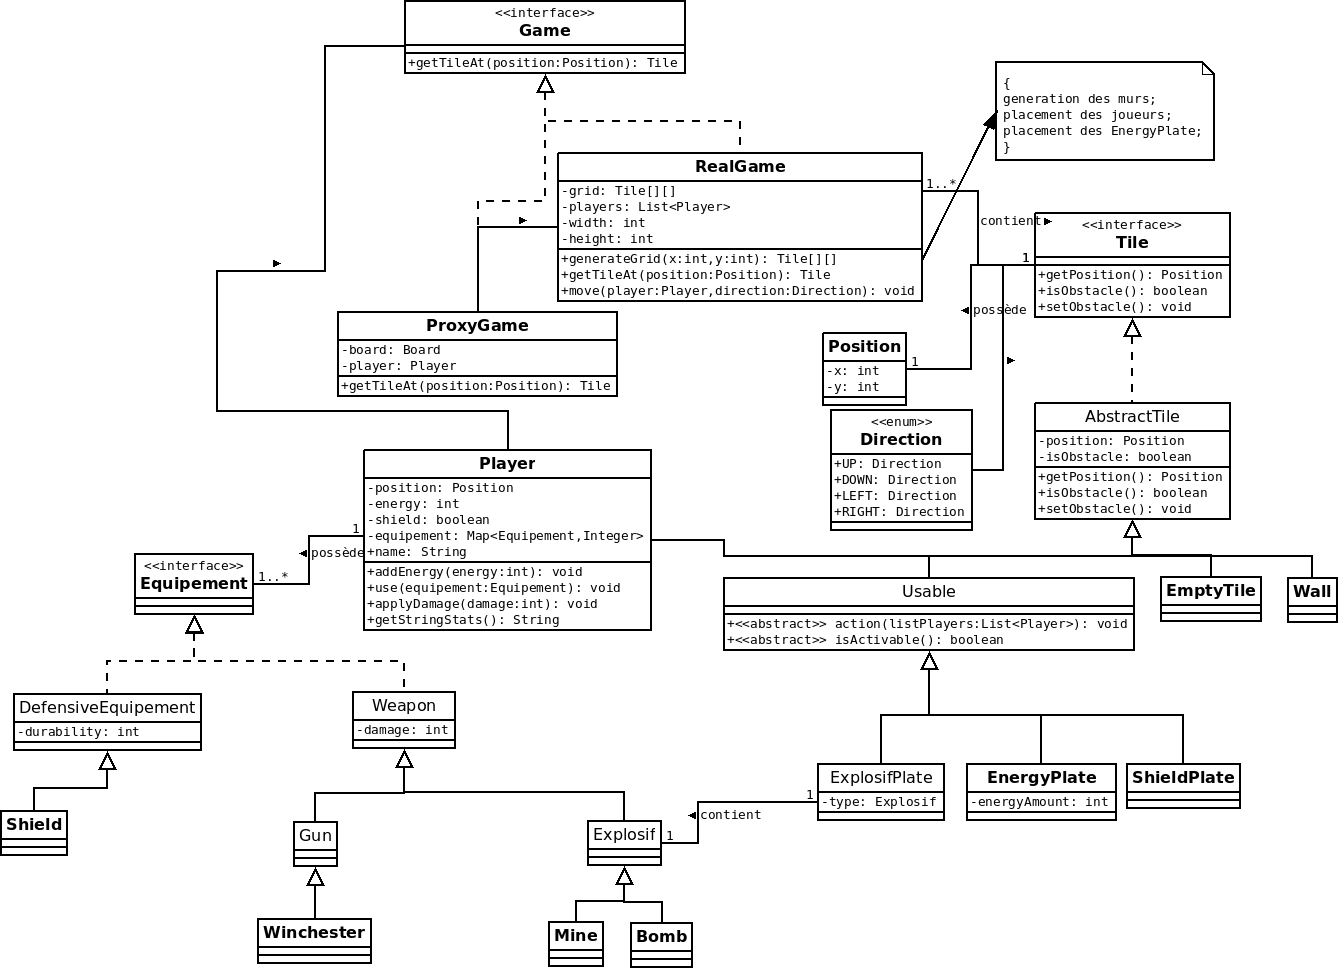
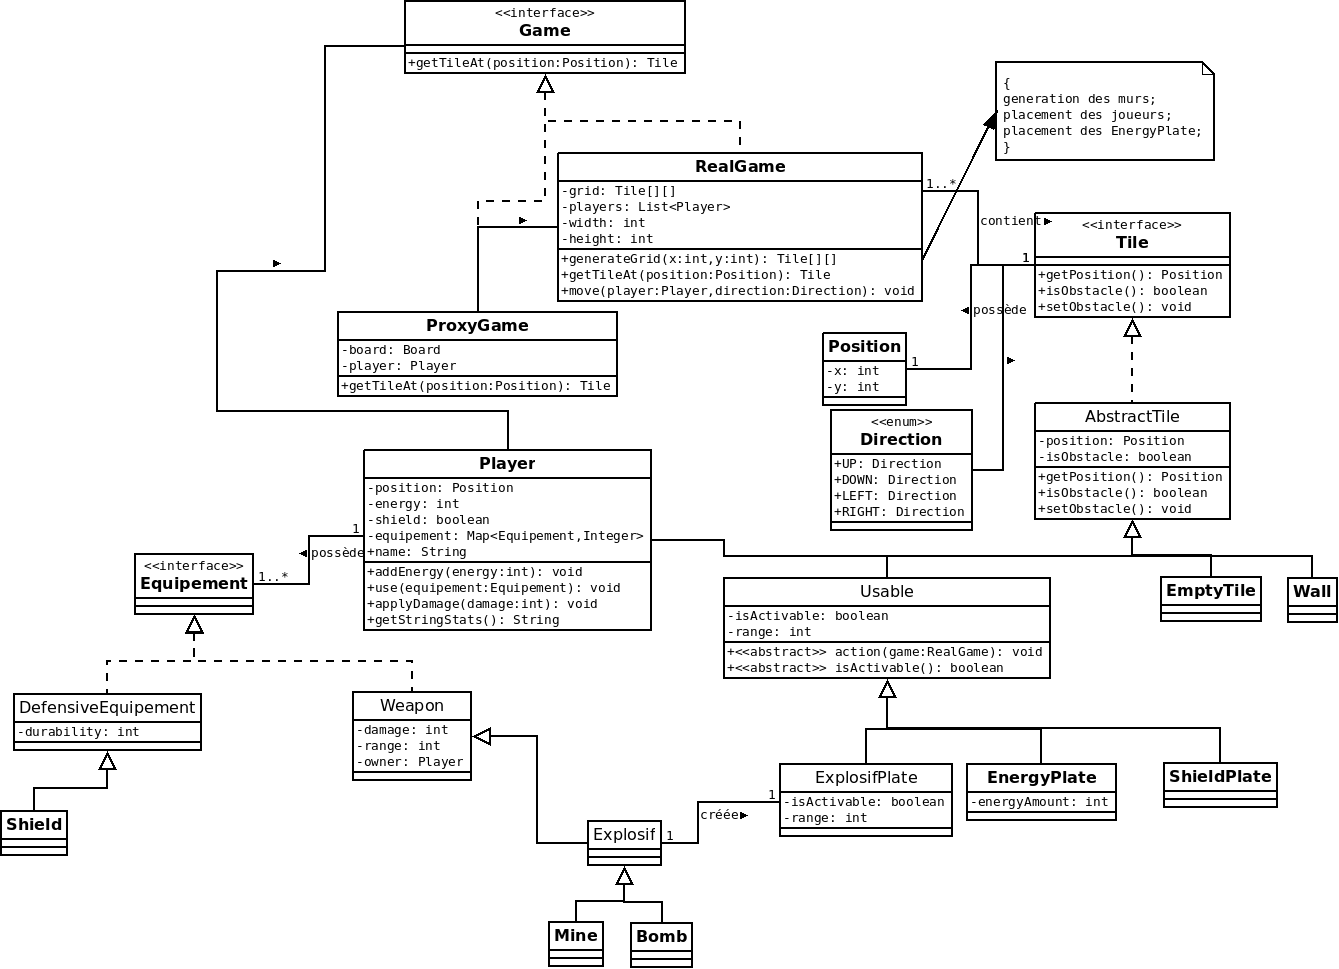
modif plates

diff --git a/livraison/src/game/ExplosifPlate.java b/livraison/src/game/ExplosifPlate.java
@@ -4,12 +4,12 @@ import java.util.*;
 
 public class ExplosifPlate extends Usable {
 
-  private Explosif type;
+  private int damage;
   private Player owner;
 
-  public ExplosifPlate(Position position, boolean isActivable, int range, Explosif type, Player owner) {
+  public ExplosifPlate(Position position, boolean isActivable, int range, int damage, Player owner) {
     super(position, isActivable, range);
-    this.type = type;
+    this.damage = damage;
     this.owner = owner;
     this.range = range;
   }
@@ -20,8 +20,10 @@ public class ExplosifPlate extends Usable {
    */
   @Override
   public void action(RealGame board) {
-    System.out.println("ExplosifPlate action this.type : " + this.type);
-    this.type.applyDamage(board,this.position,new Position(-1,-1));
+    List<Player> players = board.getPlayersAround(this.position, this.range);
+    for (Player player : players) {
+      player.applyDamage(this.damage);
+    }
   }
 
   @Override
@@ -30,15 +32,11 @@ public class ExplosifPlate extends Usable {
   }
 
   public int getDamage() {
-    return this.type.getDamage();
+    return this.damage;
   }
 
   public Player getPlayer() {
     return this.owner;
-  }
-
-  public Explosif getType() {
-    return this.type;
   }
 
   @Override

diff --git a/livraison/src/game/RobotFactory.java b/livraison/src/game/RobotFactory.java
@@ -13,13 +13,13 @@ public class RobotFactory {
   private Map<Equipement,Integer> rocketManStuff = new HashMap<Equipement,Integer>();
 
   public RobotFactory() {
-    this.tankStuff.put(new Shotgun(),6);
-    this.tankStuff.put(new Mine(),2);
-    this.tankStuff.put(new Bomb(5),2);
-    this.sniperStuff.put(new Winchester(),20);
-    this.rocketManStuff.put(new Winchester(),8);
-    this.rocketManStuff.put(new Mine(),4);
-    this.rocketManStuff.put(new Bomb(5),4);
+    this.tankStuff.put(new Weapon(5, 5, this.tank),6);
+    this.tankStuff.put(new Mine(5, 1, this.tank),2);
+    this.tankStuff.put(new Bomb(5, 0, this.tank),2);
+    this.sniperStuff.put(new Weapon(3, 4, this.sniper),20);
+    this.rocketManStuff.put(new Weapon(8, 3, this.rocketMan),8);
+    this.rocketManStuff.put(new Mine(4, 0, this.rocketMan),4);
+    this.rocketManStuff.put(new Bomb(5, 1, this.rocketMan),4);
 
     this.tank = new Player("Tank",null,null,20,false,this.tankStuff);
     this.sniper = new Player("Sniper",null,null,10,false,this.sniperStuff);

diff --git a/livraison/src/game/Explosif.java b/livraison/src/game/Explosif.java
@@ -4,8 +4,8 @@ import java.util.*;
 
 public abstract class Explosif extends Weapon {
 
-  public Explosif(int damage) {
-    super(damage, 1);
+  public Explosif(int damage, int range, Player owner) {
+    super(damage, range, owner);
   }
 
   @Override
@@ -16,7 +16,7 @@ public abstract class Explosif extends Weapon {
   @Override
   public boolean use(Position position,Direction direction,Game board){
     Position newPosition = new Position(position.getX()+direction.getX(),position.getY()+direction.getY());
-    ExplosifPlate newExplosifPlate = new ExplosifPlate(newPosition,true,this.range,this,((Player)board.getTileAt(position)));
+    ExplosifPlate newExplosifPlate = new ExplosifPlate(newPosition,true,this.range,this.damage,((Player)board.getTileAt(position)));
     ((RealGame)board).setTile(newExplosifPlate);
     return true;
   }
@@ -28,4 +28,6 @@ public abstract class Explosif extends Weapon {
       player.applyDamage(this.damage);
     }
   }
+  
+  public abstract Tile toTile(Position position);
 }

diff --git a/livraison/src/game/RealGame.java b/livraison/src/game/RealGame.java
@@ -45,7 +45,7 @@ public class RealGame implements Game {
     for (int k = 0; k < nbEnergy; k++) {
       xBomb = r.nextInt(width);
       yBomb = r.nextInt(height);
-      Tile bomb = new ExplosifPlate(new Position(xBomb, yBomb), true, 1, new Bomb(r.nextInt(10)+1,2), testPb);
+      Tile bomb = new ExplosifPlate(new Position(xBomb, yBomb), true, 1, r.nextInt(10)+1, testPb);
       this.setTile(bomb);
     }
 
@@ -228,7 +228,8 @@ public class RealGame implements Game {
     }
     return listConsvois;
   }
-
+  
+  /*
   public void bombCounter() {
     for (int i = 0; i < this.grid.length; i++) {
       for (Tile tile : this.grid[i]) {
@@ -241,7 +242,7 @@ public class RealGame implements Game {
         }
       }
     }
-  }
+  }*/
 
   /**
    * Retourne une liste de joueurs présent dans une liste de cases

diff --git a/livraison/src/game/Bomb.java b/livraison/src/game/Bomb.java
@@ -3,14 +3,15 @@ package game;
 public class Bomb extends Explosif {
 
   private int counter;
+  private Player owner;
 
-  public Bomb(int damage, int counter) {
-    super(damage);
+  public Bomb(int damage, int range, int counter, Player owner) {
+    super(damage, range, owner);
     this.counter = counter;
   }
 
-  public Bomb(int counter) {
-    this(5, counter);
+  public Bomb(int counter, int range, Player owner) {
+    this(5, counter, range, owner);
   }
 
   public void setCounter(int counter) {
@@ -24,6 +25,11 @@ public class Bomb extends Explosif {
 
   public int getCounter() {
     return this.counter;
+  }
+  
+  @Override
+  public Tile toTile(Position position) {
+    return  new ExplosifPlate(position, true, this.range, damage, this.owner);
   }
 
   @Override

diff --git a/livraison/src/game/Mine.java b/livraison/src/game/Mine.java
@@ -3,14 +3,20 @@ package game;
 public class Mine extends Explosif {
 
   private int damage;
+  private Player owner;
 
-  public Mine() {
-    super(4);
+  public Mine(int damage, int range, Player owner) {
+    super(damage, range, owner);
   }
 
   @Override
   public int getDamage() {
     return this.damage;
+  }
+  
+  @Override
+  public Tile toTile(Position position) {
+    return new ExplosifPlate(position, true, this.range, this.damage, owner);
   }
 
   @Override

diff --git a/livraison/src/game/Weapon.java b/livraison/src/game/Weapon.java
@@ -4,10 +4,12 @@ public class Weapon implements Equipement {
 
   protected int damage;
   protected int range;
+  protected Player owner;
 
-  public Weapon(int damage, int range) {
+  public Weapon(int damage, int range, Player owner) {
     this.damage = damage;
     this.range = range;
+    this.owner = owner;
   }
 
   public int getDamage() {
